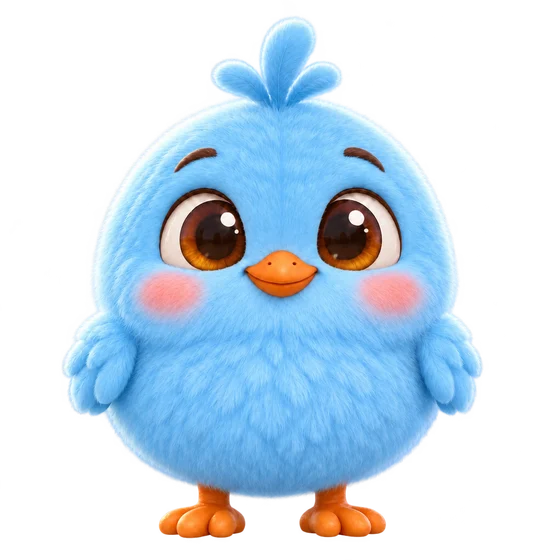
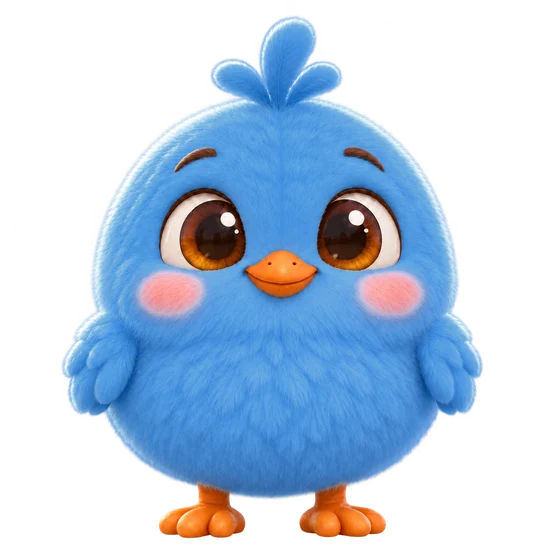
Oscurecer un poco el azul de Pío

diff --git a/web/app/globals.css b/web/app/globals.css
@@ -9,7 +9,7 @@
   --mint-hi: #d6f6bd;
   --mint-ink: #14352a;
   --chick: #ffd978;
-  --sky: #7cc8ff;
+  --sky: #6fb6f5;
   --coral: #ff9f8e;
   --coral-ink: #47201a;
   --amber: #f2c38e;
@@ -224,8 +224,8 @@ p {
   border-radius: 50%;
   background: radial-gradient(
     circle,
-    #7cc8ff3d 0,
-    #7cc8ff14 46%,
+    #5fa8ee3d 0,
+    #5fa8ee14 46%,
     transparent 70%
   );
   transform: scale(calc(1 + var(--level, 0) * 0.22));
